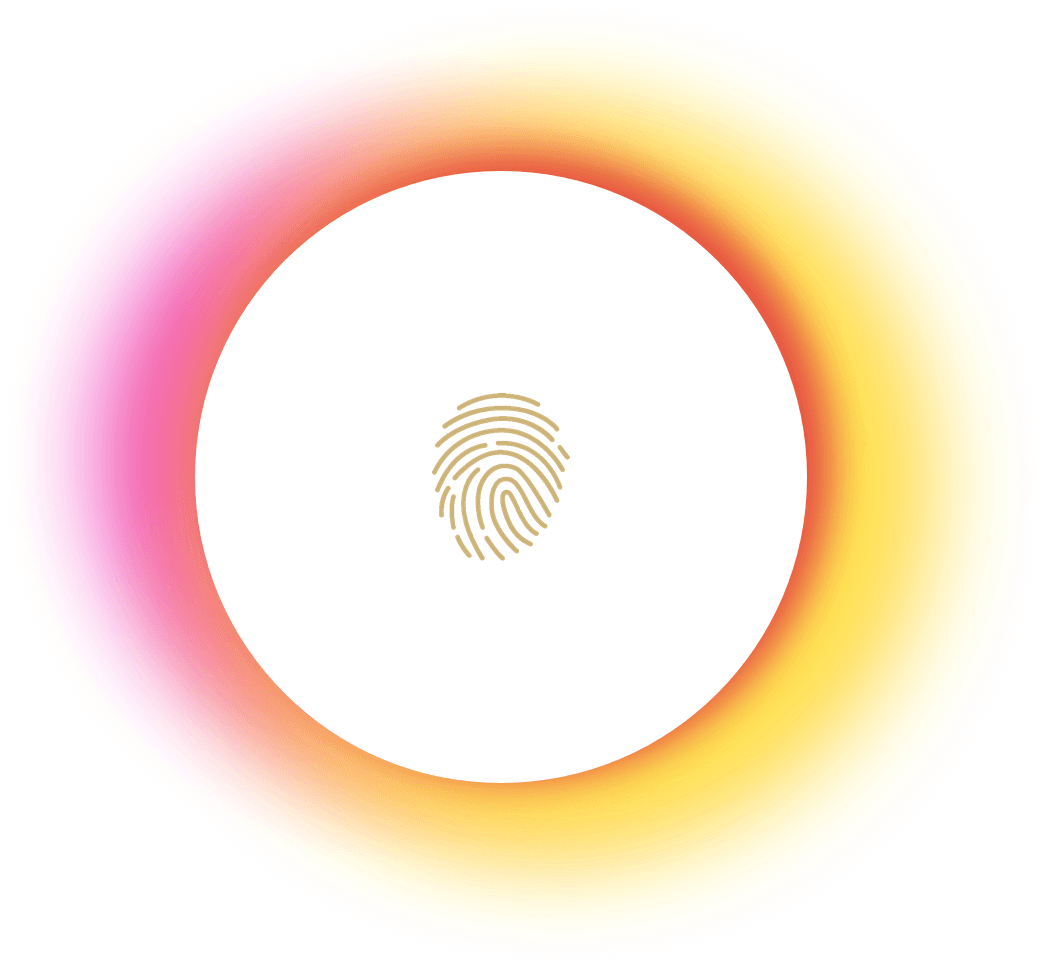
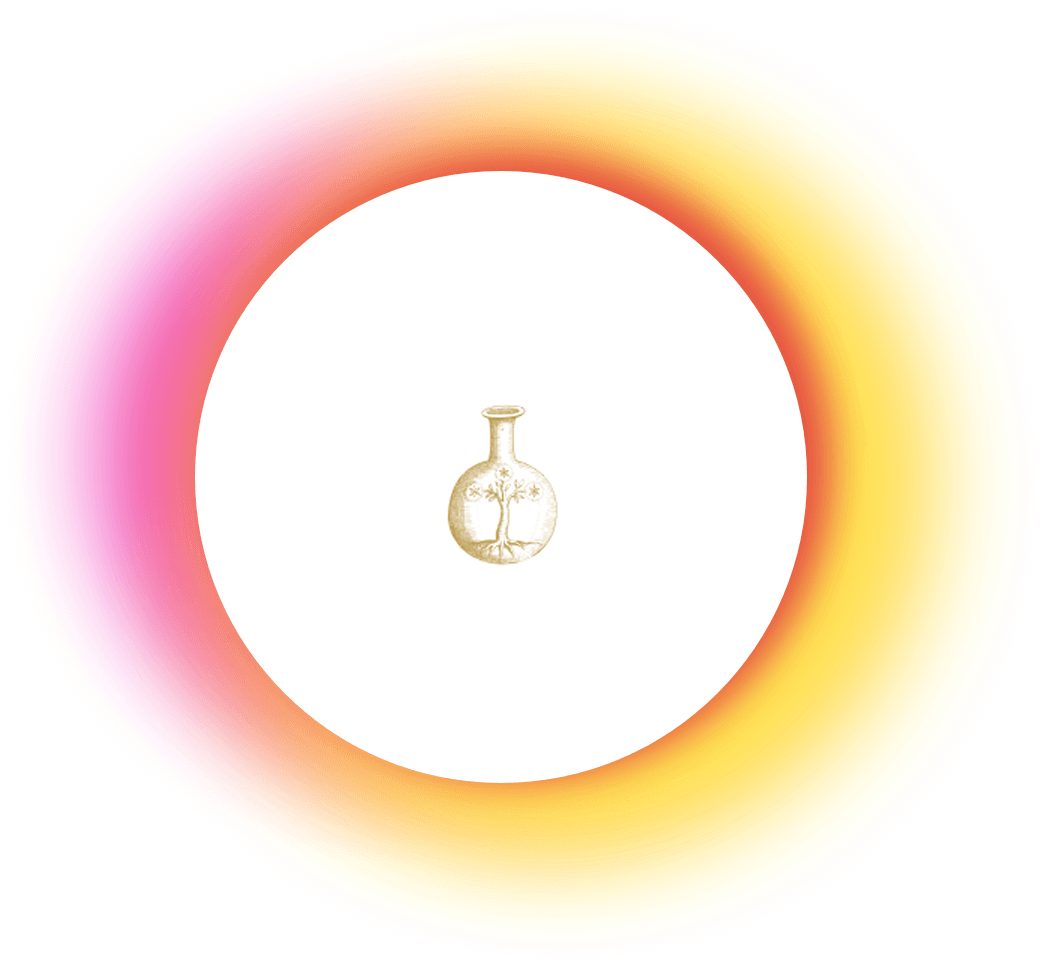
update ball png for game success condition

Changed region(s): [[0.3985, 0.4037, 0.5517, 0.5901]]

diff --git a/wx-src/pages/game/engine.js b/wx-src/pages/game/engine.js
@@ -301,6 +301,7 @@ const _paintEaseInOut = function(values, flag, direct){
                     'initShow': '',
                     'playShow': '',
                     'waitingShow': '',
+                    'ballClass': 'cong',
                     'ballSrc': ballbig
                 });
                 if (flagFinished) {
